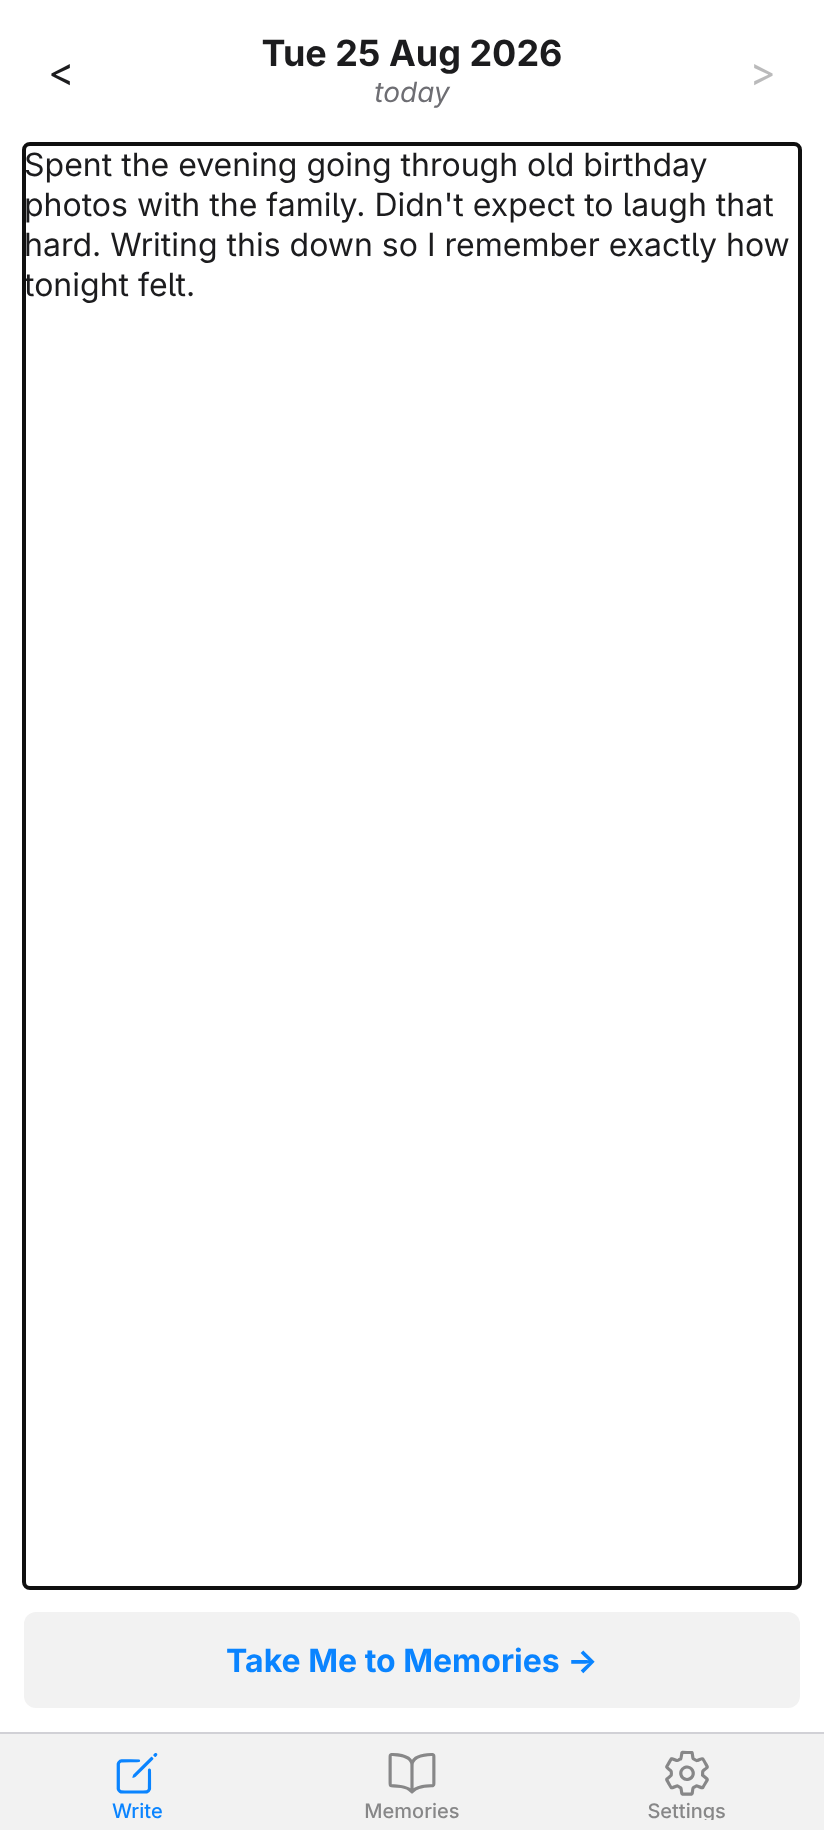
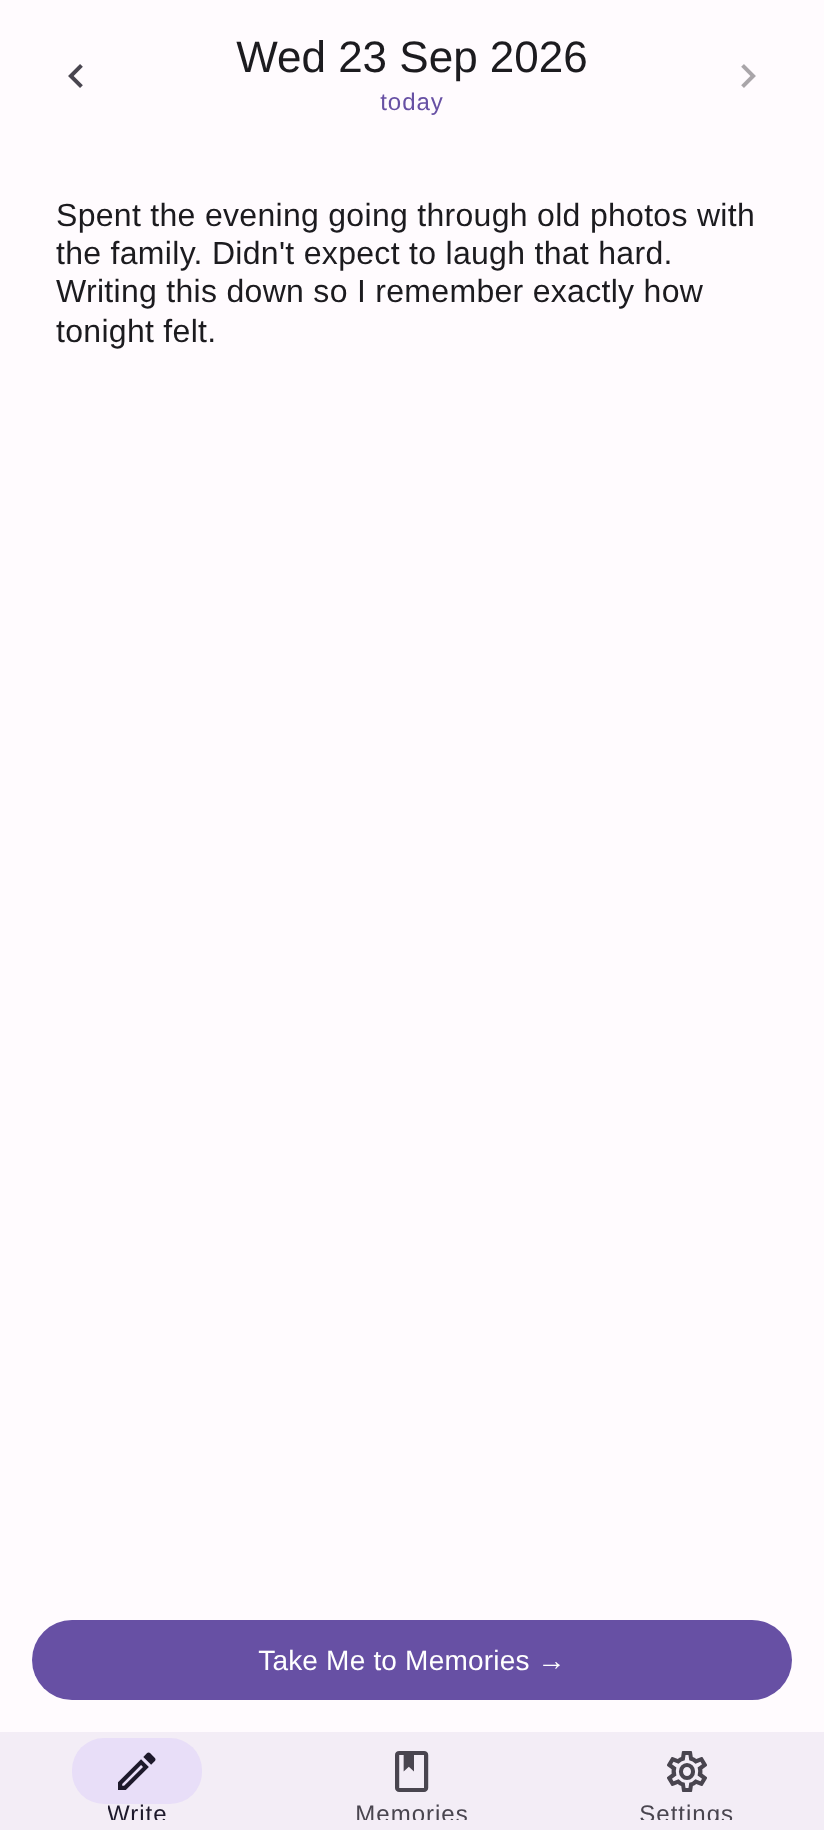
chore(store): regenerate Play/F-Droid screenshots for the Material rewrite
Old screenshots predated the react-native-paper Material 3 rewrite. Also
fixes `make web`, which failed to bundle at all: expo-sqlite's web worker
statically imports a .wasm file Metro doesn't resolve by default, even
though the web build never touches SQLite (IndexedDbStore handles web).

Changed region(s): [[0.0, 0.0, 0.9709, 0.9967], [0.9405, 0.0623, 0.9709, 0.0934], [0.9102, 0.0311, 0.9405, 0.0623]]

diff --git a/metro.config.js b/metro.config.js
@@ -1,0 +1,11 @@
+const { getDefaultConfig } = require('expo/metro-config');
+
+const config = getDefaultConfig(__dirname);
+
+// expo-sqlite's web worker statically imports its wasm binary. The web build
+// never actually runs that code path (openStore.ts picks IndexedDbStore on
+// web), but Metro still resolves every static import when bundling, so
+// without this the web bundle fails to build at all.
+config.resolver.assetExts.push('wasm');
+
+module.exports = config;
